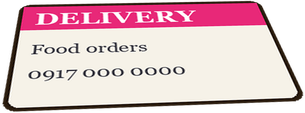
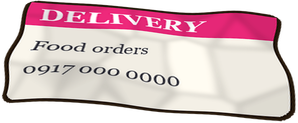
style(art): police poster in the wall's perspective, crumpled food flyer
- The police emergency poster is redrawn in the left wall's perspective
  (the wall turns away to the right, so its right edge is shorter and
  narrower), with soft wrinkles, light from the top left, a lifted
  bottom corner, lighter tape and a thinner edge, so it reads as real
  paper on the wall.
- The food delivery flyer is slightly crumpled (soft folds, bent
  edges), turned a little, and lies on the floor beside the bed. Player
  text now calls it the food delivery flyer.

Claude-Session: https://claude.ai/code/session_018qtt7uTeVSGsnvQanUjafP

diff --git a/tools/draw_props.py b/tools/draw_props.py
@@ -137,23 +137,115 @@ def draw_poster() -> None:
     stain = Image.new("RGBA", (w, h), (150, 110, 60, 255))
     stain.putalpha(Image.composite(aged, Image.new("L", (w, h), 0), paper.getchannel("A")))
     paper.alpha_composite(stain)
+    # Real paper: soft wrinkles from being handled, a little shading from the room's light falling
+    # from the top left, and the bottom right corner lifting off the wall.
+    paper = wrinkle(paper, strength=0.07, seed=3)
+    light = Image.linear_gradient("L").rotate(-35, expand=False).resize((w, h)).point(lambda v: int(v * 0.16))
+    shade = Image.new("RGBA", (w, h), (40, 30, 30, 255))
+    shade.putalpha(Image.composite(light, Image.new("L", (w, h), 0), paper.getchannel("A")))
+    paper.alpha_composite(shade)
+    curl = 46 * s
+    corner = ImageDraw.Draw(paper)
+    corner.polygon([(w, h - curl), (w - curl, h), (w, h)], fill=(0, 0, 0, 0))
+    corner.polygon([(w, h - curl), (w - curl, h), (w - curl * 0.82, h - curl * 0.82)], fill=(226, 218, 198, 255))
     # Two strips of tape at the top corners.
     canvas = Image.new("RGBA", (w + 60 * s, h + 60 * s), (0, 0, 0, 0))
     canvas.alpha_composite(paper, (30 * s, 30 * s))
     for x, angle in ((30 * s, 35), (w + 30 * s, -35)):
-        tape = Image.new("RGBA", (70 * s, 22 * s), (236, 226, 190, 175))
+        tape = Image.new("RGBA", (70 * s, 22 * s), (236, 226, 190, 150))
         tape = tape.rotate(angle, expand=True, resample=Image.BICUBIC)
         canvas.alpha_composite(tape, (x - tape.width // 2, 30 * s - tape.height // 2))
-    canvas = outline(canvas, 5, (70, 44, 24, 255))
+    canvas = outline(canvas, 2, (90, 66, 44, 200))
+    # On the room's left wall, which turns away toward a vanishing point far to the right: the right
+    # edge is a little shorter and narrower, the top slopes down and the bottom slopes up.
+    cw, ch = canvas.size
+    out_w, out_h = int(cw * 0.89), int(ch * 1.04)
+    square = [(0, 0), (cw, 0), (cw, ch), (0, ch)]
+    wall = [(0, 0), (out_w, int(ch * 0.106)), (out_w, out_h), (0, int(ch * 1.0))]
+    canvas = canvas.transform((out_w, out_h), Image.PERSPECTIVE, perspective_coeffs(square, wall), Image.BICUBIC)
+    canvas = canvas.crop(canvas.getbbox())
     final = canvas.resize((canvas.width // SCALE, canvas.height // SCALE), Image.LANCZOS)
     final.save(PROPS / "police_poster.png")
 
 
+def wrinkle(image: Image.Image, strength: float, seed: int) -> Image.Image:
+    """Soft, smooth light and dark patches across paper, like gentle wrinkles."""
+    import numpy as np
+
+    rng = np.random.default_rng(seed)
+    w, h = image.size
+    coarse = Image.fromarray((rng.random((9, 7)) * 255).astype("uint8"), "L").resize((w, h), Image.BICUBIC)
+    field = (np.asarray(coarse, dtype=float) / 255.0 - 0.5) * 2.0 * strength
+    rgba = np.asarray(image, dtype=float)
+    rgba[..., :3] = np.clip(rgba[..., :3] * (1.0 + field[..., None]), 0, 255)
+    return Image.fromarray(rgba.astype("uint8"), "RGBA")
+
+
+def _smooth(values, w: int, h: int):
+    """A small grid of numbers enlarged smoothly to w x h."""
+    import numpy as np
+
+    small = Image.fromarray(np.asarray(values, dtype="float32"), "F")
+    return np.asarray(small.resize((w, h), Image.BICUBIC), dtype=float)
+
+
+def _sample(channel, ys, xs):
+    """Reads a picture channel at fractional positions, blending the four nearest pixels."""
+    import numpy as np
+
+    h, w = channel.shape
+    x0 = np.clip(np.floor(xs).astype(int), 0, w - 2)
+    y0 = np.clip(np.floor(ys).astype(int), 0, h - 2)
+    fx = np.clip(xs - x0, 0, 1)
+    fy = np.clip(ys - y0, 0, 1)
+    top = channel[y0, x0] * (1 - fx) + channel[y0, x0 + 1] * fx
+    bottom = channel[y0 + 1, x0] * (1 - fx) + channel[y0 + 1, x0 + 1] * fx
+    out = top * (1 - fy) + bottom * fy
+    outside = (xs < 0) | (ys < 0) | (xs > w - 1) | (ys > h - 1)
+    out[outside] = 0
+    return out
+
+
+def crumple(image: Image.Image, seed: int) -> Image.Image:
+    """Paper that was crumpled and smoothed out again: flat facets each catching the light a bit
+    differently, darker creases between them, and slightly bent edges."""
+    import numpy as np
+
+    rng = np.random.default_rng(seed)
+    w, h = image.size
+    rgba = np.asarray(image, dtype=float)
+    # Facets: every pixel belongs to its nearest of a few random points.
+    points = rng.random((22, 2)) * [w, h]
+    ys, xs = np.mgrid[0:h:4, 0:w:4]
+    dist = np.sqrt((xs[..., None] - points[:, 0]) ** 2 + (ys[..., None] - points[:, 1]) ** 2)
+    order = np.sort(dist, axis=-1)
+    nearest = np.argmin(dist, axis=-1)
+    tone = rng.uniform(0.9, 1.05, len(points))[nearest]
+    # A crease where two facets meet: the two nearest points are almost equally near.
+    crease = np.clip(1.0 - (order[..., 1] - order[..., 0]) / (9.0 * SCALE), 0.0, 1.0)
+    light = _smooth(tone * (1.0 - 0.13 * crease), w, h)
+    # Soften the folds so they read as paper, not as drawn lines.
+    folds = Image.fromarray(np.clip(light * 200.0, 0, 255).astype("uint8"), "L").filter(ImageFilter.GaussianBlur(3 * SCALE))
+    light = np.asarray(folds, dtype=float) / 200.0
+    rgba[..., :3] = np.clip(rgba[..., :3] * light[..., None], 0, 255)
+    # Bent edges: every pixel is nudged a little by a smooth random field.
+    bend = 7.0 * SCALE
+    dx = _smooth(rng.uniform(-1, 1, (5, 6)), w, h) * bend
+    dy = _smooth(rng.uniform(-1, 1, (5, 6)), w, h) * bend
+    yy, xx = np.mgrid[0:h, 0:w].astype(float)
+    out = np.stack([_sample(rgba[..., c], yy + dy, xx + dx) for c in range(4)], axis=-1)
+    return Image.fromarray(np.clip(out, 0, 255).astype("uint8"), "RGBA")
+
+
 def draw_card_on_floor() -> None:
-    """The food delivery card lying flat on the floor, seen at the room's angle, made from the
-    card's own picture so it keeps its look."""
+    """The food delivery flyer lying on the floor, slightly crumpled, seen at the room's angle,
+    made from the card's own picture so it keeps its look."""
     card = Image.open(PROPS / "food_delivery_card.png").convert("RGBA")
     card = card.resize((card.width * SCALE, card.height * SCALE), Image.LANCZOS)
+    pad = 12 * SCALE
+    padded = Image.new("RGBA", (card.width + pad * 2, card.height + pad * 2), (0, 0, 0, 0))
+    padded.alpha_composite(card, (pad, pad))
+    card = crumple(padded, seed=7).rotate(-9, expand=True, resample=Image.BICUBIC)
     w, h = card.size
     out_w, out_h = int(w * 1.05), int(h * 0.62)
     square = [(0, 0), (w, 0), (w, h), (0, h)]

diff --git a/assets/README.md b/assets/README.md
@@ -37,9 +37,9 @@ slot (keeping their proportions) and sit on the bottom edge of it.
 | --- | --- |
 | `keys.png` | Apartment room: the five keys, seen from a low side angle (drawn by `tools/draw_props.py`) |
 | `door.png` | Apartment room |
-| `police_poster.png` | Apartment room: the police emergency poster on the wall (drawn by `tools/draw_props.py`) |
+| `police_poster.png` | Apartment room: the police emergency poster on the left wall, in that wall's perspective (drawn by `tools/draw_props.py`) |
 | `food_delivery_card.png` | The food delivery card's own picture (drawn for the game) |
-| `food_delivery_card_floor.png` | Apartment room, Padala timeline only: the card lying on the floor (made from the card by `tools/draw_props.py`) |
+| `food_delivery_card_floor.png` | Apartment room, Padala timeline only: the flyer lying slightly crumpled on the floor beside the bed (made from the card picture by `tools/draw_props.py`) |
 | `telephone.png` | Apartment room |
 | `confessional_booth.png` | Church nave (cutout above the background) |
 | `nave_vase.png` | Church nave (cutout above the booth) |
